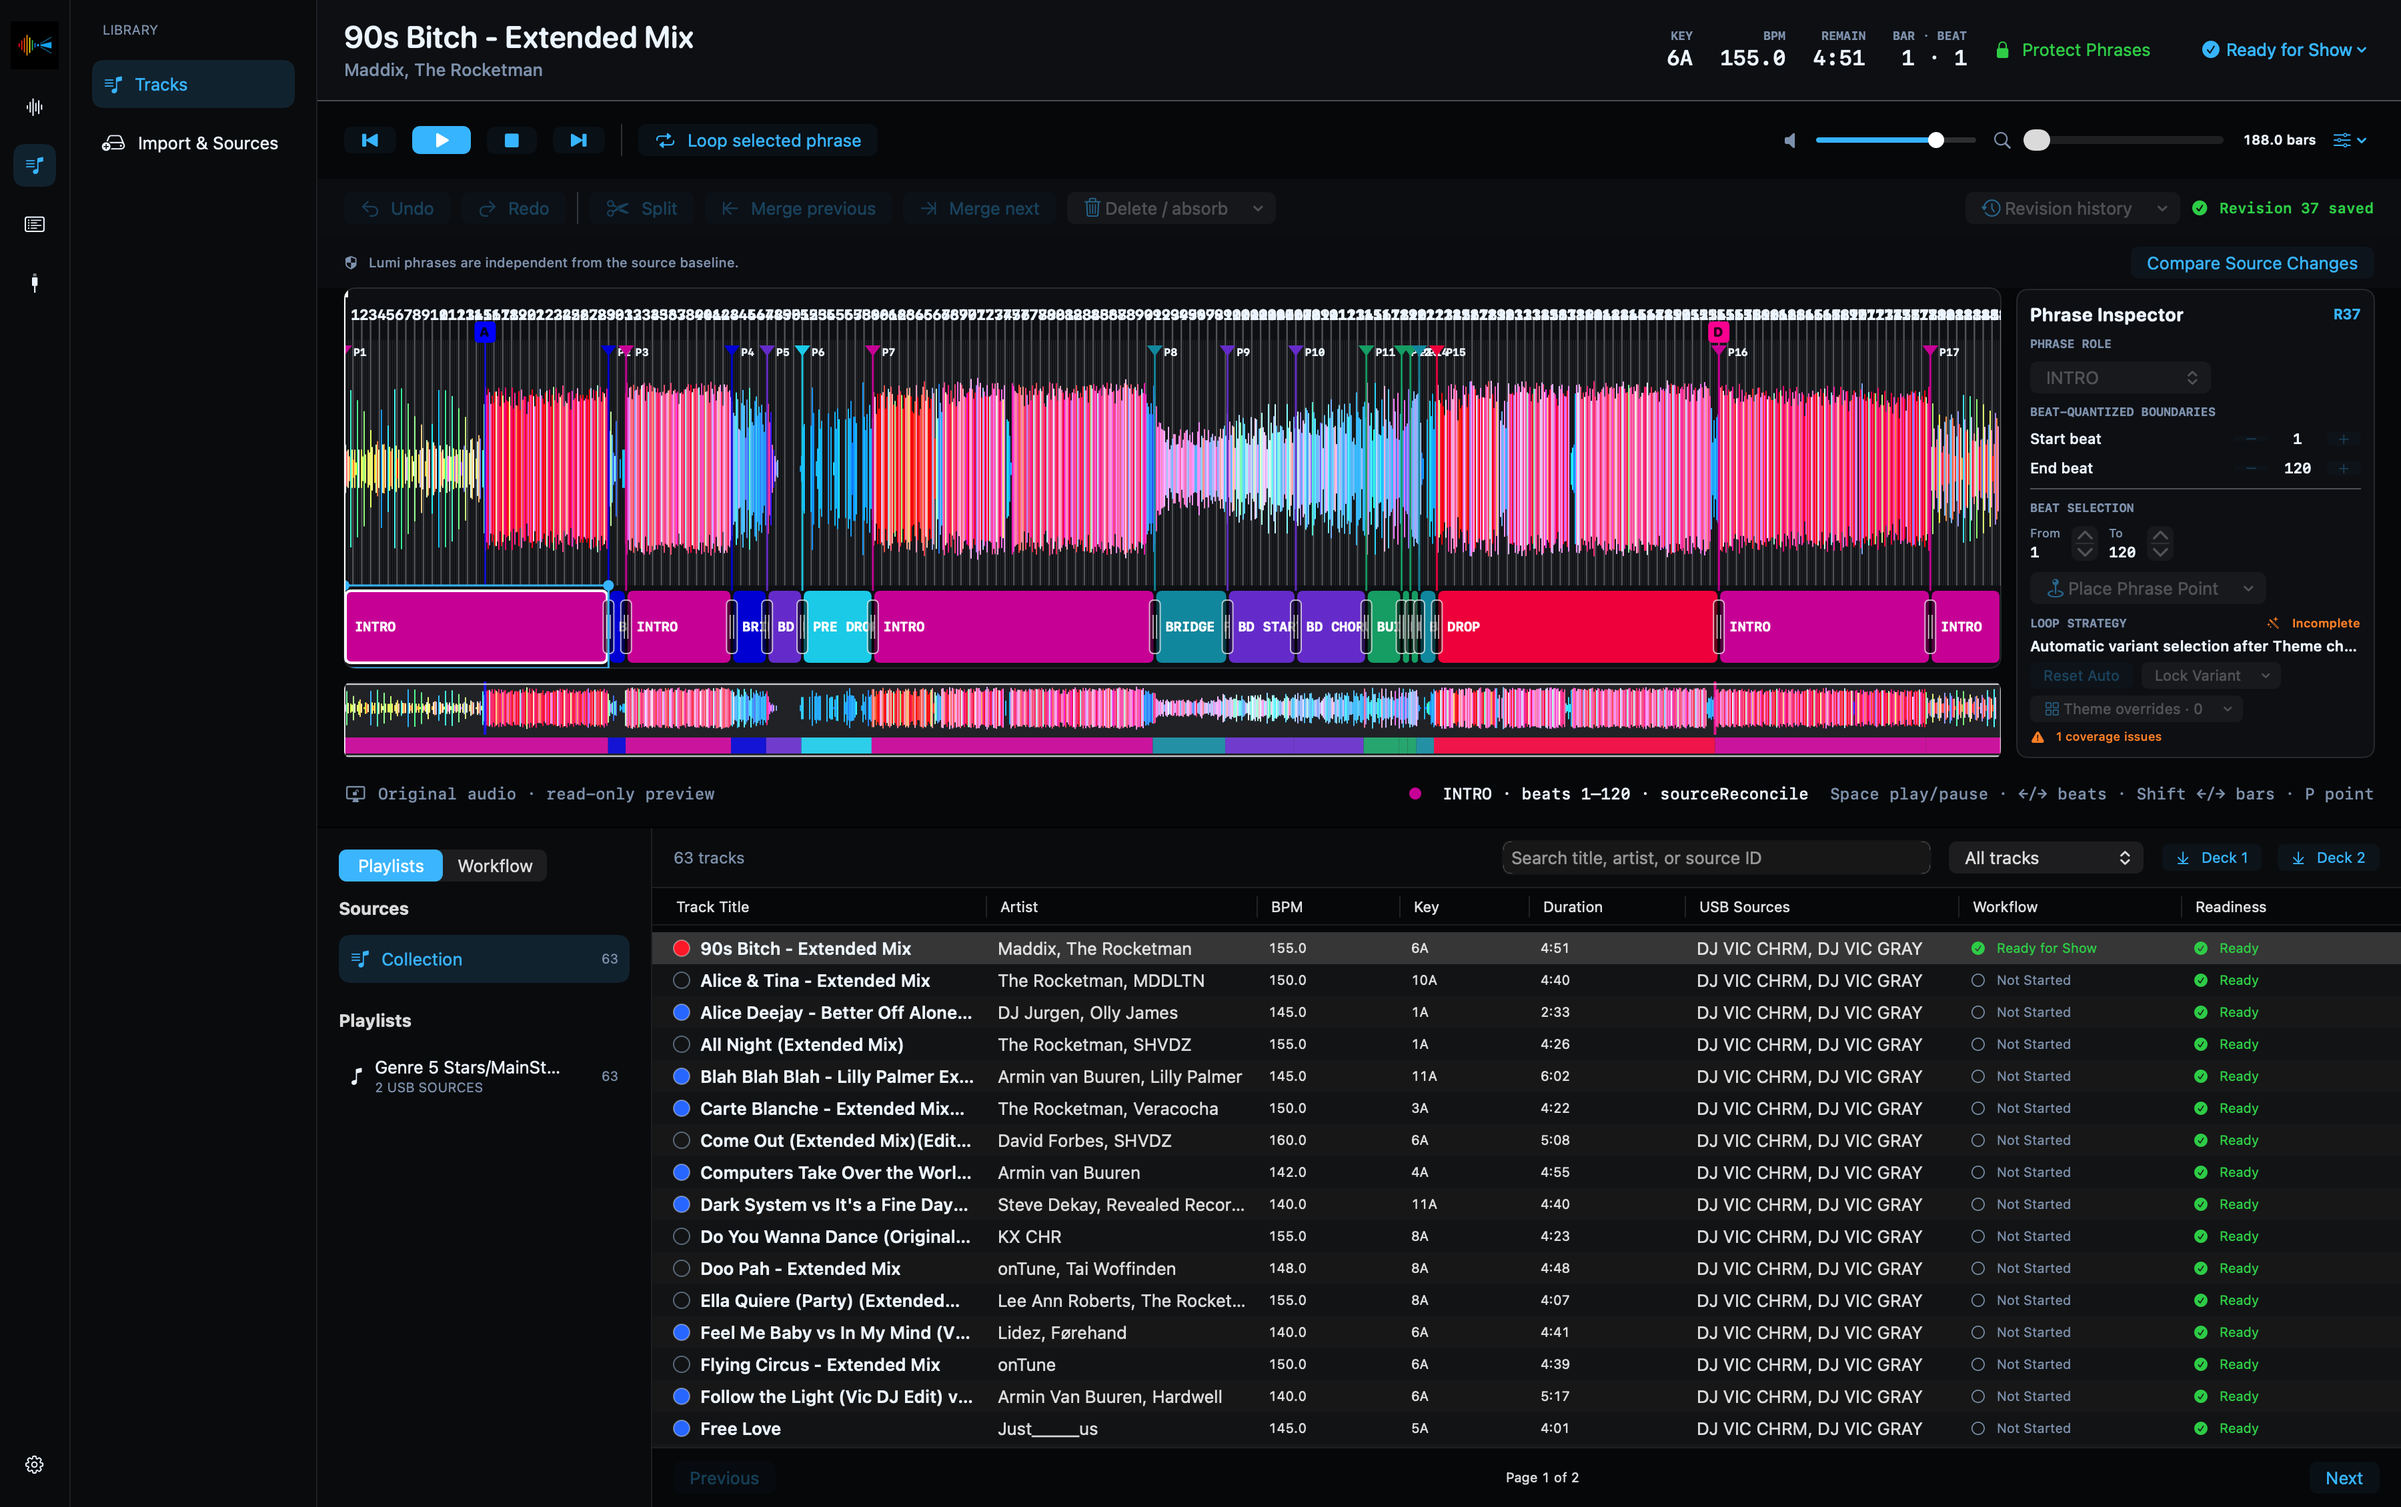
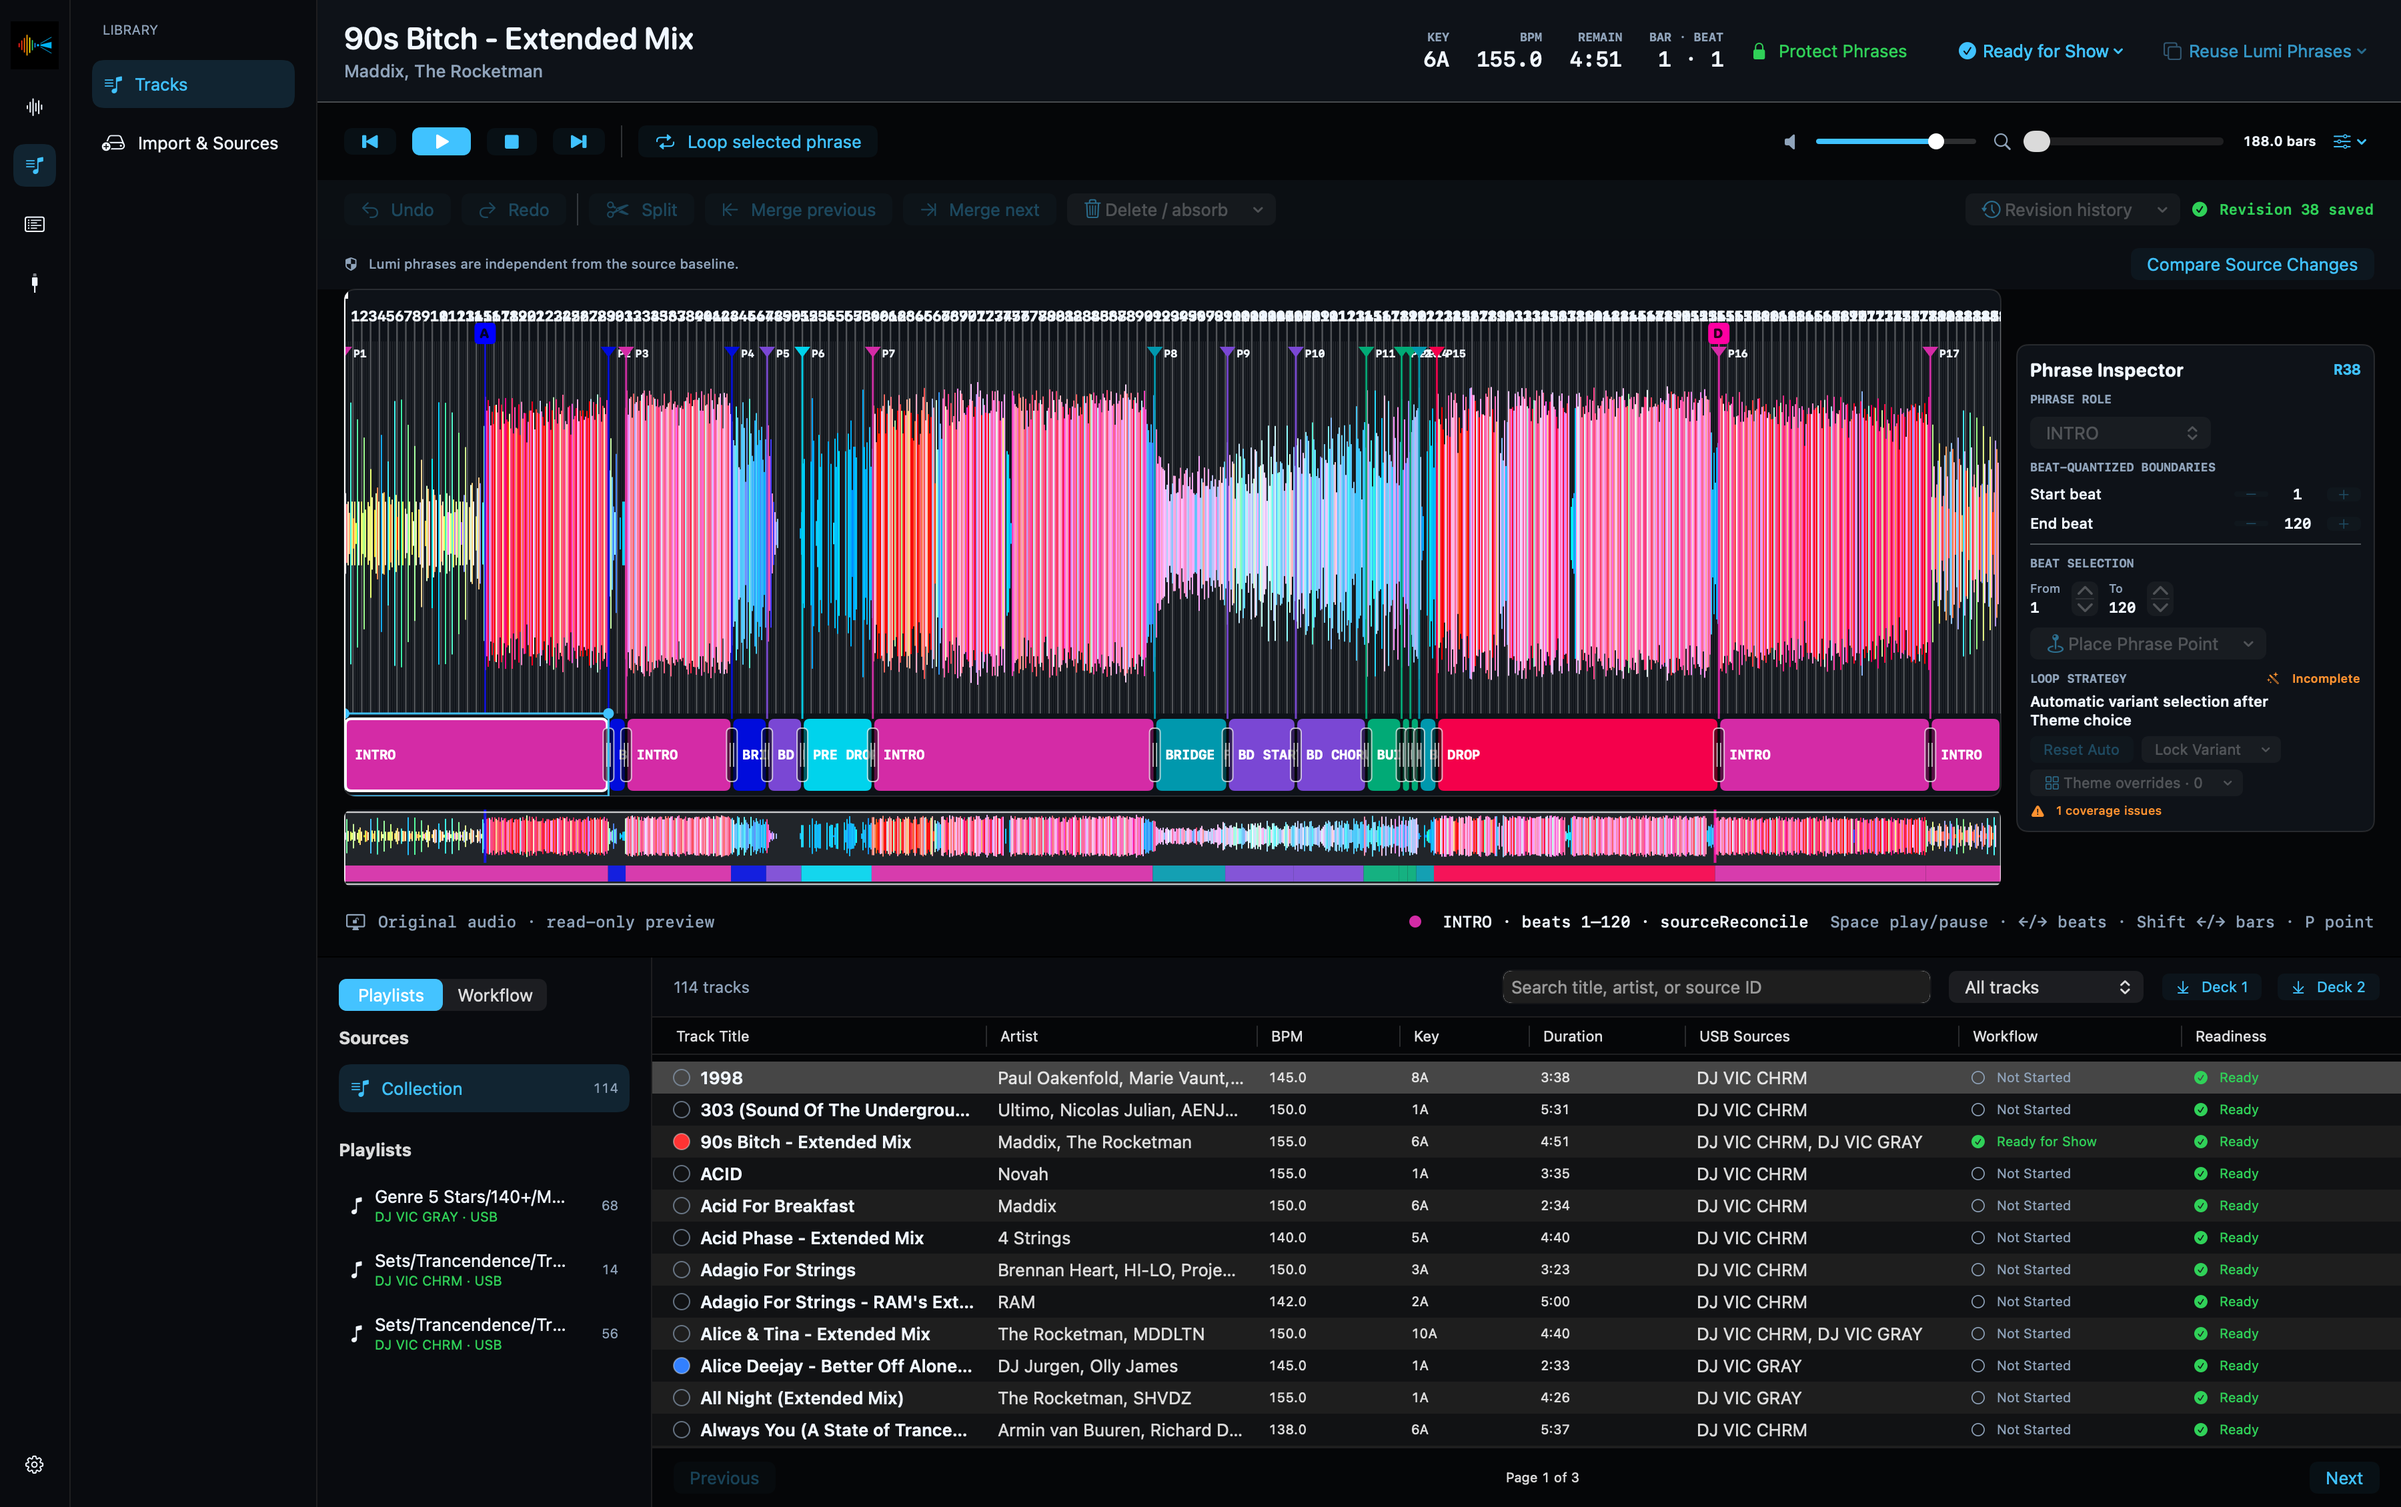
docs: recover native Retina editor capture workflow

diff --git a/apps/macos/Lumi/App/LumiApp.swift b/apps/macos/Lumi/App/LumiApp.swift
@@ -53,6 +53,15 @@ struct LumiApp: App {
                 }
         }
         .defaultSize(width: 1_280, height: 820)
+#if LUMI_DOCUMENTATION_CAPTURE
+        .commands {
+            CommandGroup(after: .saveItem) {
+                Button("Export Retina Documentation Image") {
+                    MacApplicationWindow.exportDocumentationImage()
+                }
+            }
+        }
+#endif
     }
 }
 
@@ -80,6 +89,48 @@ final class LumiApplicationDelegate: NSObject, NSApplicationDelegate {
 
 @MainActor
 private enum MacApplicationWindow {
+#if LUMI_DOCUMENTATION_CAPTURE
+    // Opt-in local documentation build only. Exports this application's own
+    // rendered content, not the desktop or other applications' windows.
+    static func exportDocumentationImage() {
+        guard let window = NSApp.mainWindow, let contentView = window.contentView else { return }
+        func editorSplit(in view: NSView) -> NSSplitView? {
+            if let split = view as? NSSplitView, !split.isVertical { return split }
+            return view.subviews.lazy.compactMap { editorSplit(in: $0) }.first
+        }
+        if let split = editorSplit(in: contentView) {
+            let preference = UserDefaults.standard.double(
+                forKey: "co.victorblan.tech.lumi.library.editor-split.preferredEditorHeight"
+            )
+            if preference > 0 { split.setPosition(preference, ofDividerAt: 0) }
+        }
+        DispatchQueue.main.asyncAfter(deadline: .now() + 0.3) {
+            writeDocumentationImage(window: window)
+        }
+    }
+
+    private static func writeDocumentationImage(window: NSWindow) {
+        guard let contentView = window.contentView else { return }
+        let bounds = contentView.bounds
+        let scale = window.backingScaleFactor
+        guard let bitmap = NSBitmapImageRep(
+            bitmapDataPlanes: nil,
+            pixelsWide: Int((bounds.width * scale).rounded()),
+            pixelsHigh: Int((bounds.height * scale).rounded()),
+            bitsPerSample: 8, samplesPerPixel: 4, hasAlpha: true, isPlanar: false,
+            colorSpaceName: .deviceRGB, bytesPerRow: 0, bitsPerPixel: 0
+        ) else { return }
+        bitmap.size = bounds.size
+        contentView.cacheDisplay(in: bounds, to: bitmap)
+        guard let data = bitmap.representation(using: .png, properties: [:]) else { return }
+        do {
+            try data.write(to: URL(fileURLWithPath: "/tmp/lumi-editor-retina.png"), options: .atomic)
+        } catch {
+            NSAlert(error: error).runModal()
+        }
+    }
+#endif
+
     static func configure(_ window: NSWindow) {
         window.contentMinSize = NSSize(width: 1_180, height: 620)
         disableAutomaticHostingSizeMeasurements(in: window.contentViewController)

diff --git a/docs/development/retina-documentation-captures.md b/docs/development/retina-documentation-captures.md
@@ -1,0 +1,47 @@
+# Native Retina documentation captures
+
+## Working method
+
+Lumi can export **its own rendered AppKit window content**, at the window's
+native backing scale, from an opt-in local documentation build. This was the
+successful capture method on 2026-08-30 and was verified again on 2026-09-05.
+It is not an external desktop screenshot and does not capture other apps.
+
+Build with `LUMI_DOCUMENTATION_CAPTURE` added to
+`SWIFT_ACTIVE_COMPILATION_CONDITIONS`, preserving the inherited conditions. Use
+a temporary copy of the existing development app and its packaged resources;
+replace and ad-hoc sign only that temporary bundle. Do not replace the user's
+installed application. Only one app with the Dev bundle identity should run at
+a time. Normal builds do not enable the capture condition or export menu.
+
+In the temporary build:
+
+1. Open the real prepared Library track in the actual Editor.
+2. Collapse the main navigation and make the window full screen.
+3. Select **File → Export Retina Documentation Image**.
+4. Inspect `/tmp/lumi-editor-retina.png` and verify its actual pixel dimensions.
+5. Copy the inspected original PNG to the documentation assets. Never upscale
+   a Computer Use JPEG or use synthetic waveform data as a product screenshot.
+6. Close the temporary build and leave the normal installed Dev app open.
+
+The editor export uses the user's stored preferred editor height. This is a
+documentation-only layout step, **not proof that normal track loading restores
+that preference correctly**. Track-load/layout persistence remains a separate
+UI acceptance item.
+
+## Verified output
+
+2026-09-05: 90s Bitch, actual Dev Library revision 38, collapsed navigation,
+717-point editor pane, 3600 × 2260 PNG, approximately 940 KiB. Text and the
+accepted RGB waveform were inspected. No waveform renderer/color code changed.
+
+## Why the other routes failed
+
+- `screencapture -l` could not capture the known window in this tool process.
+- Native capture preflight returned false despite Computer Use being available.
+- The current Computer Use image was confirmed to be a 1223 × 768 JPEG, not a
+  Retina original merely resized for display.
+- Keyboard and Screenshot-app launch attempts did not yield an original file.
+
+Do not repeat those routes indefinitely or alter privacy settings. The in-app
+export avoids depending on external screen recording in the first place.

diff --git a/docs/planning/editor-height-persistence-dev-10.md b/docs/planning/editor-height-persistence-dev-10.md
@@ -28,3 +28,15 @@ There are no waveform renderer, engine, USB or lighting timing changes.
 - Original-resolution screenshot: blocked by native macOS capture permission
   (`CGPreflightScreenCaptureAccess() == false`). Do not publish a compressed
   Computer Use screenshot as a replacement.
+
+## Screenshot follow-up
+
+The earlier working method was recovered from the task history: a temporary
+Lumi build exported its own rendered AppKit window at Retina scale. This now
+produced and visually verified a 3600 × 2260 original Editor PNG with collapsed
+navigation and the user's 717-point pane. See
+`../development/retina-documentation-captures.md` for the repeatable procedure.
+
+Normal track loading was observed resetting the pane to 620 points despite the
+717-point preference. That remaining layout issue is not solved by exporting
+the documentation image at the preferred height. Keep the UI acceptance open.
